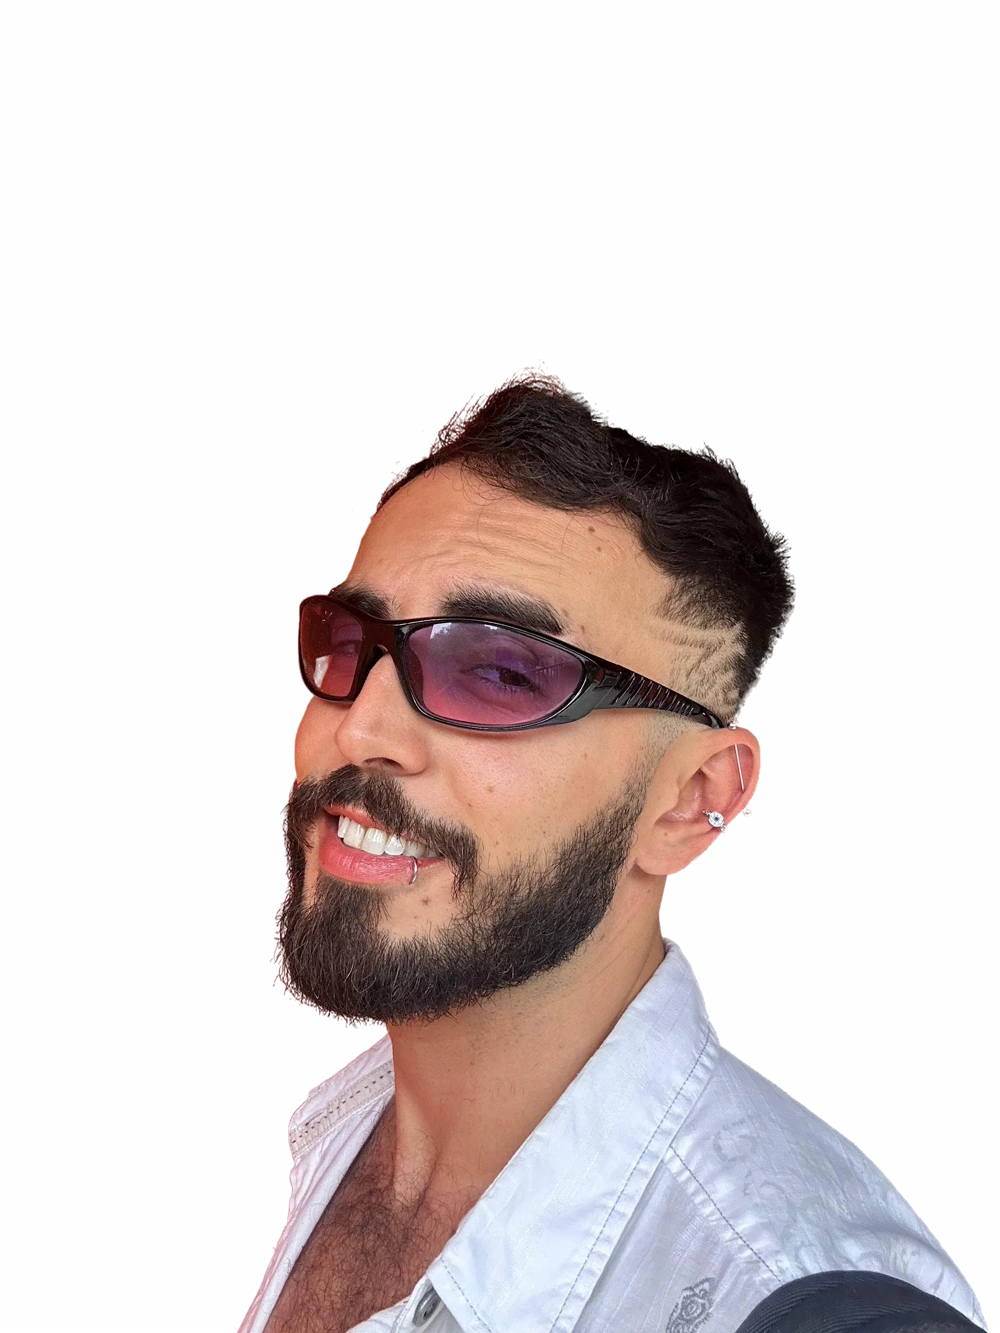
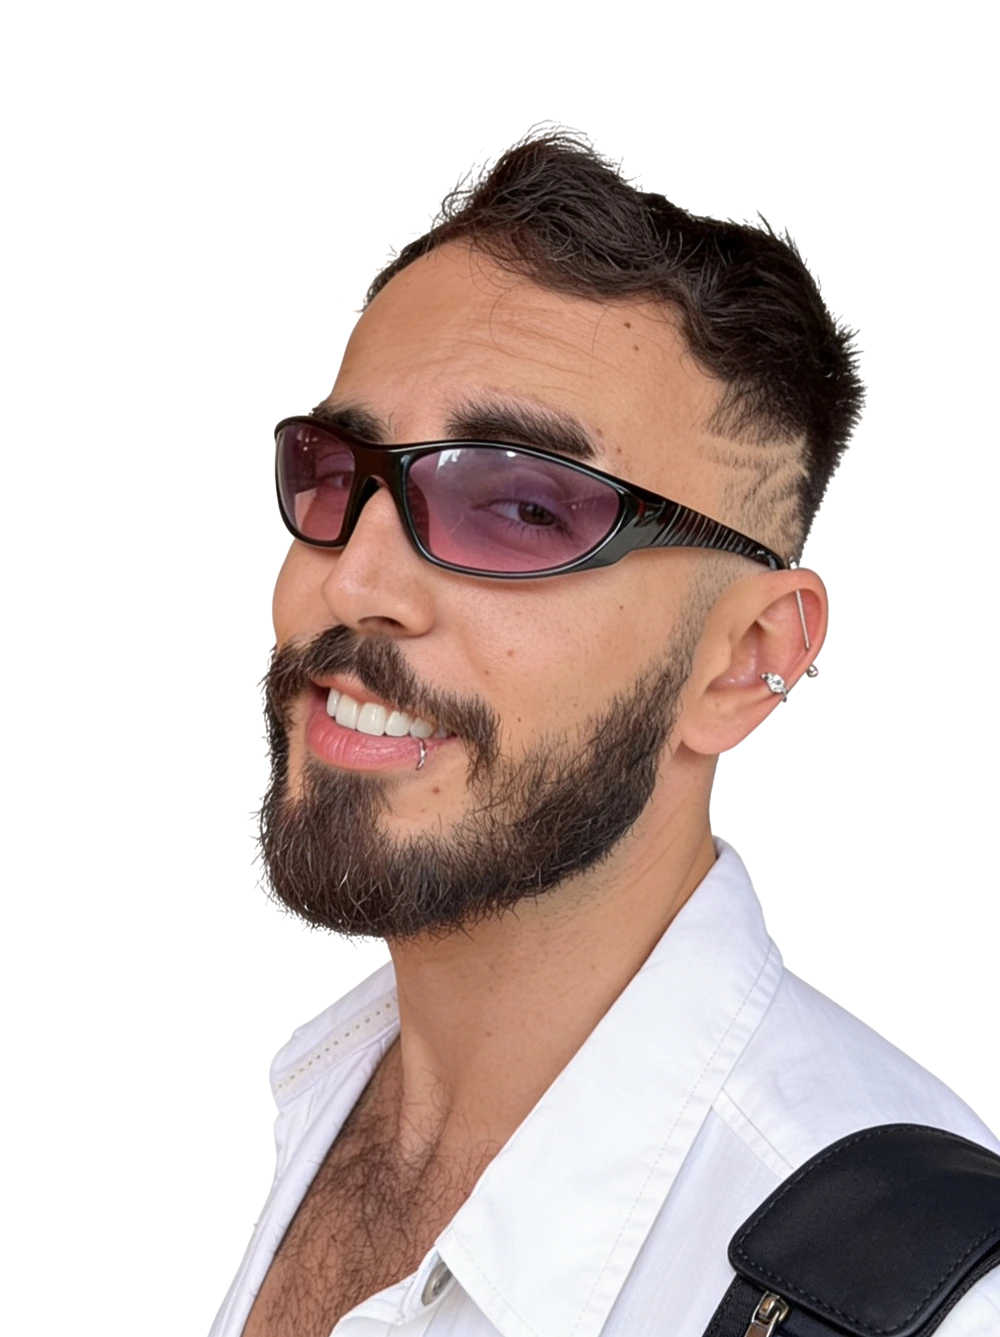
fix: correct UNIEDU recruiter case link, redo hero photo bg removal from user's edited source
- UNIEDU CTA now points to /recrutamento (was pointing to a nonexistent /recrutadores path)
- re-ran real background removal on the photo the user had already edited (foto lucas portifolio editada sem fundo.png), instead of the raw source jpeg used previously

diff --git a/index.html b/index.html
@@ -124,7 +124,7 @@
                   <span>UX Research</span><span>Design System</span><span>Product Strategy</span><span data-i18n="work.uniedu.tag1">Gamificação</span><span data-i18n="work.uniedu.tag2">Protótipo</span>
                 </div>
                 <div class="work-ctas">
-                  <a class="work-cta" href="https://case-app-uniedu.vercel.app/recrutadores" target="_blank" rel="noopener noreferrer"><span data-i18n="work.uniedu.ctaRecruiter">Ver case para recrutadores</span> <span class="arr">→</span></a>
+                  <a class="work-cta" href="https://case-app-uniedu.vercel.app/recrutamento" target="_blank" rel="noopener noreferrer"><span data-i18n="work.uniedu.ctaRecruiter">Ver case para recrutadores</span> <span class="arr">→</span></a>
                   <a class="work-cta-sec" href="https://projeto-uniedu.vercel.app" target="_blank" rel="noopener noreferrer"><span data-i18n="work.uniedu.ctaPrototype">Abrir protótipo</span> →</a>
                 </div>
               </div>
